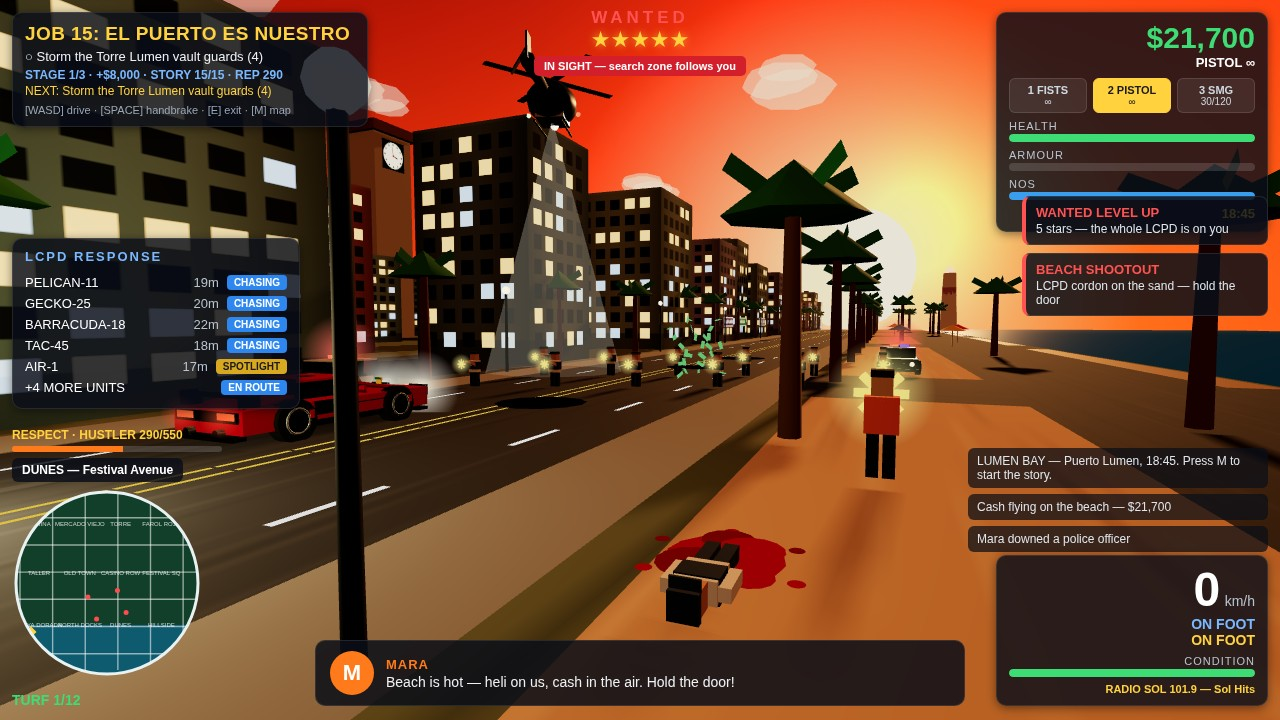
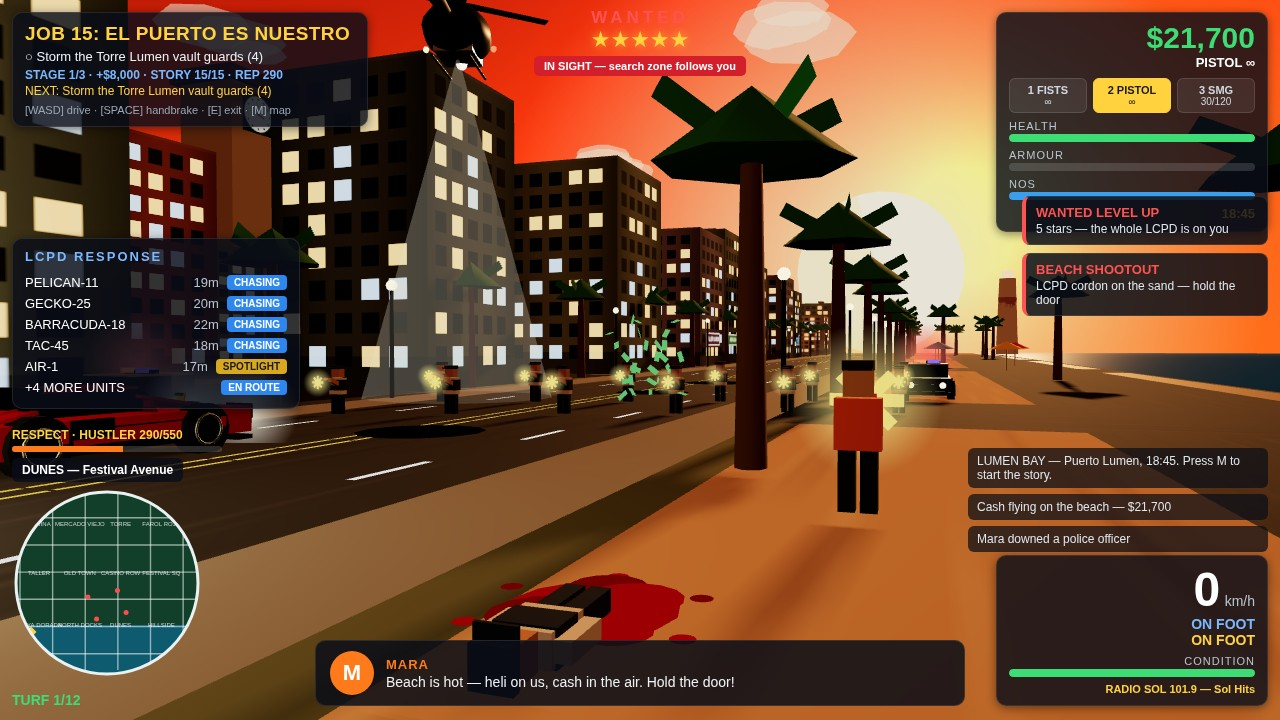
r15 fix: tighten shot 2 camera — cordon readable (single recording 01a1ff61)

diff --git a/game/src/shots.js b/game/src/shots.js
@@ -203,11 +203,18 @@ function stageShot2(G) {
   // no umbrella anywhere in this shot — clear the beach dressing near the duel
   G.clearUmbrellasNear(110, 222, 45);
 
-  // camera: pulled back, dist 9, looking east-southeast down the boulevard
+  // camera: west on the beach, low, looking east-southeast across the sand
+  // with a NARROWED fov (48 vs the default 62) so the cordon reads ~35px
+  // tall like HEAD: cordon mid-frame, Mara large right, downed cop
+  // foreground centre, heli top-centre. fov is set here only — the main
+  // loop re-pins pos/lookAt every frame but never touches fov, and each
+  // shot loads a fresh page, so shots 1/3/4 are unaffected.
   const cam = G.camera;
-  cam.position.set(86, 3.4, 229);
-  cam.lookAt(118, 1.2, 216);
-  G.shotCam = { fixed: true, pos: [86, 3.4, 229], look: [118, 1.2, 216] };
+  cam.position.set(87, 2.6, 230);
+  cam.lookAt(118, 2.0, 219);
+  cam.fov = 48;
+  cam.updateProjectionMatrix();
+  G.shotCam = { fixed: true, pos: [87, 2.6, 230], look: [118, 2.0, 219] };
 }
 
 // --- SHOT 3: full city map --------------------------------------------------------
